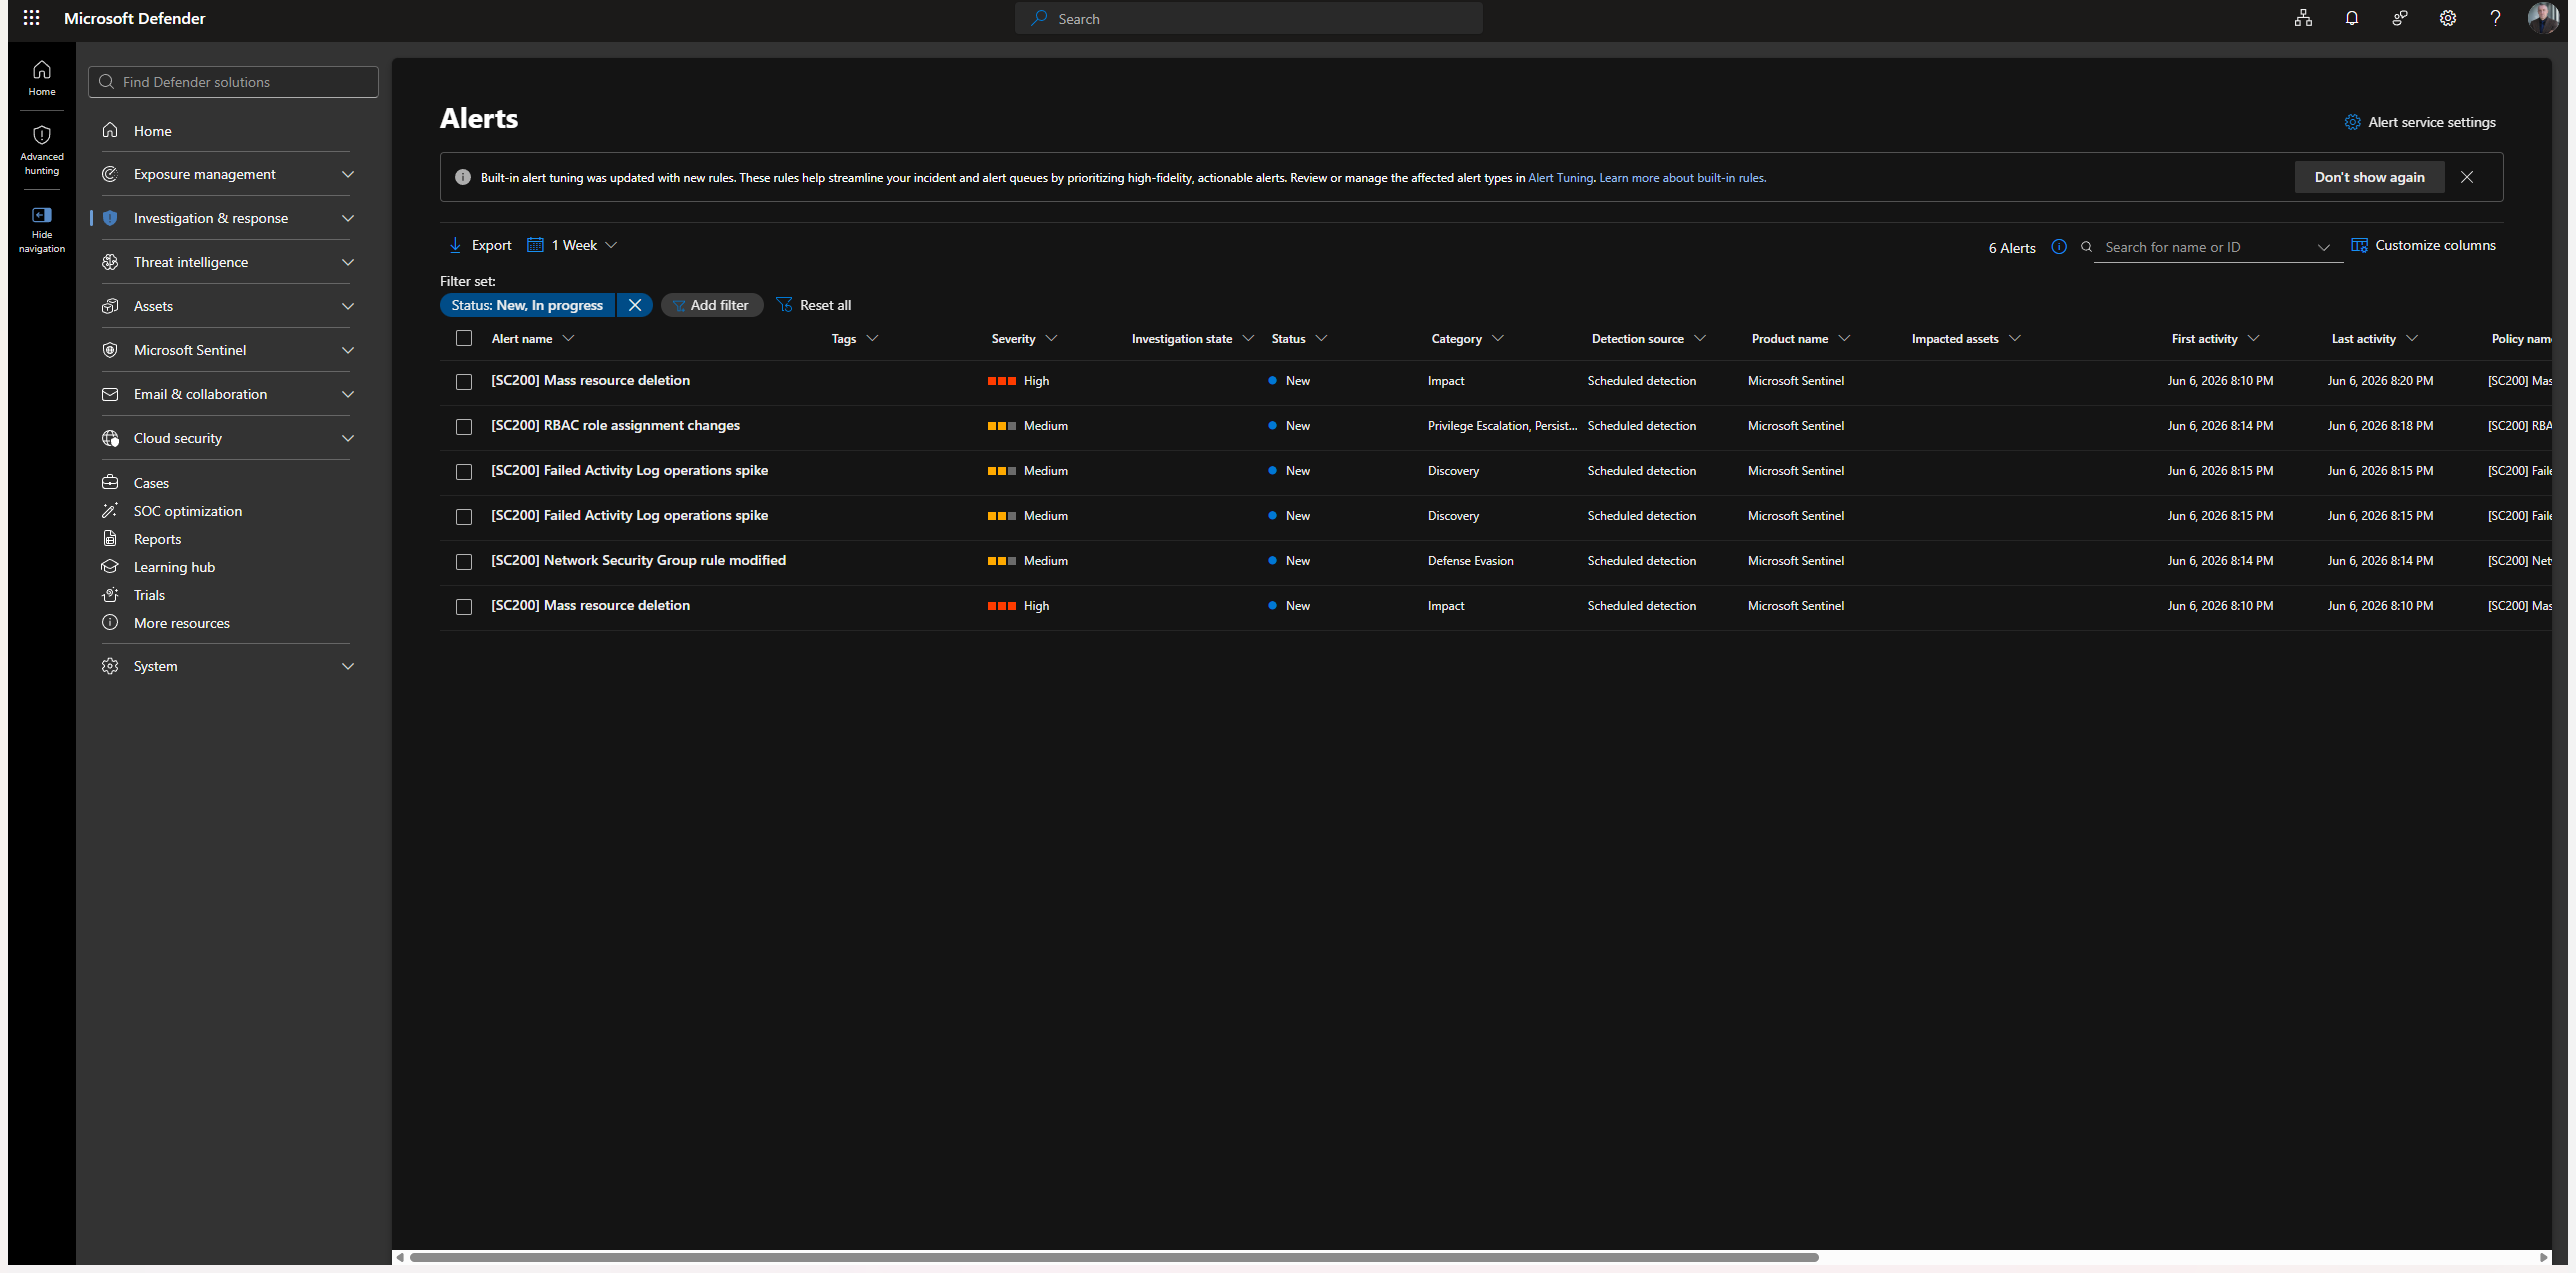
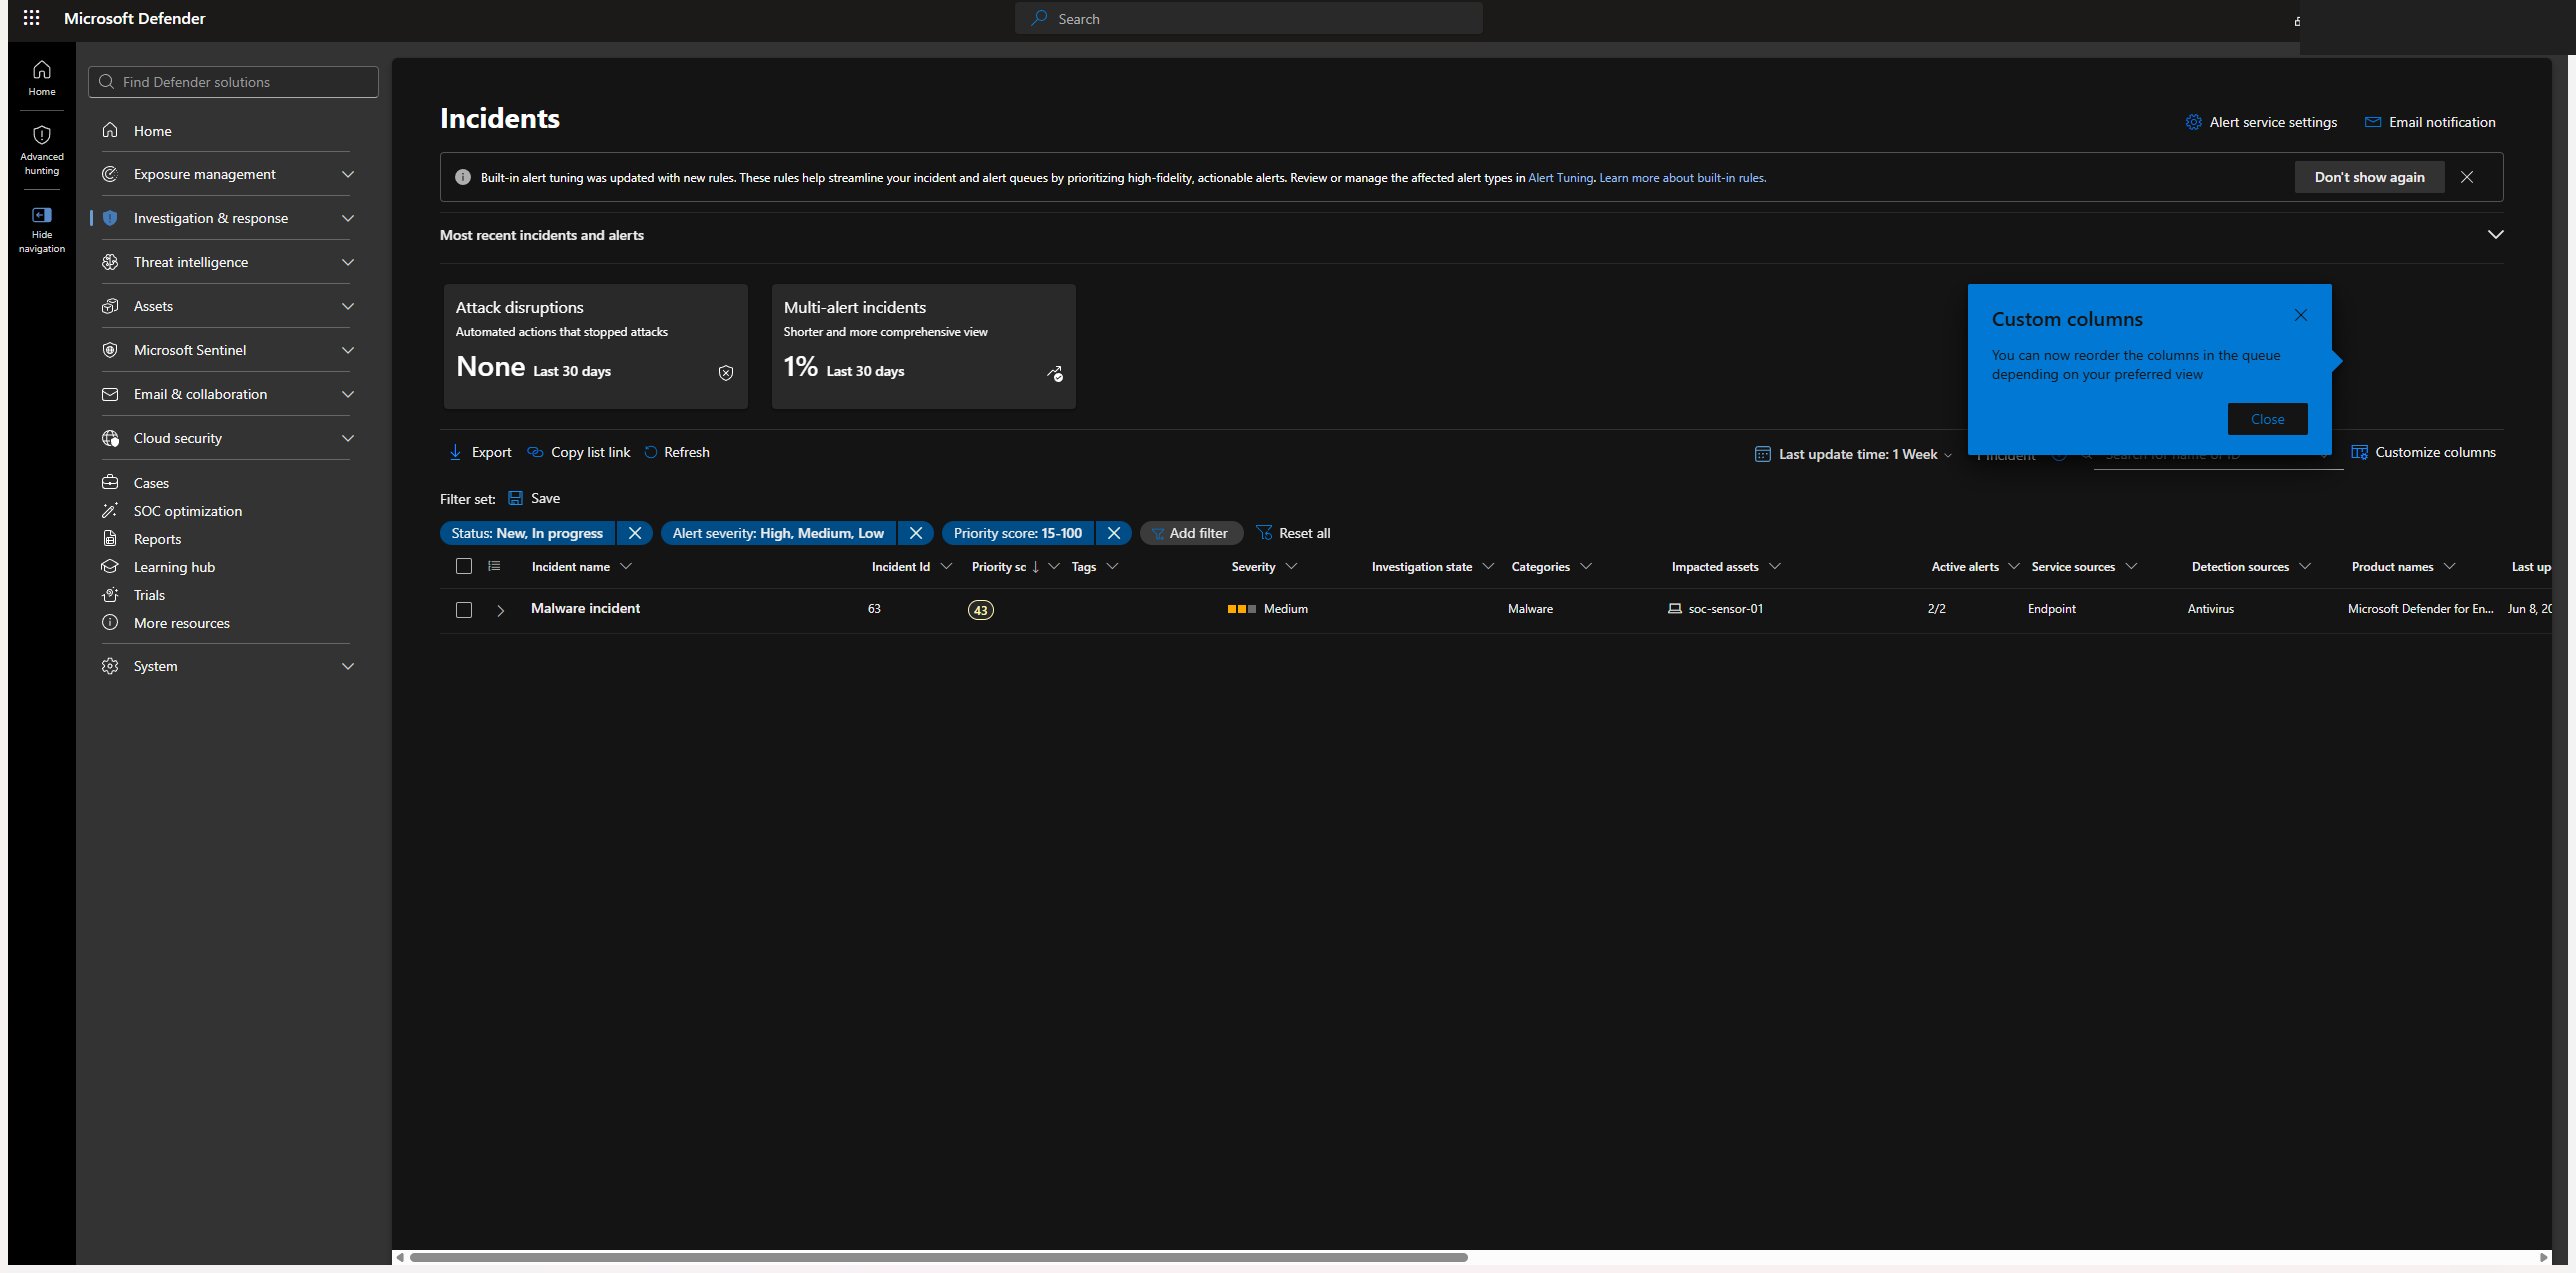
Add live endpoint and TVM evidence screenshots
Captures from the live environment, tenant identifiers redacted (top crop
removes the URL-bar tenant id; the account chip with UPN, org name, and photo
is blacked out on every portal frame):

- 02 refreshed: Sentinel Analytics showing six [DET] rules enabled, including
  [DET] LSASS credential access (High).
- 05 refreshed: incidents queue with the endpoint incident on soc-sensor-01.
- 07 new: Defender Vulnerability Management weaknesses, OpenSSL critical CVEs (CVSS 9.8).
- 08 new: device inventory, soc-sensor-01 Active and onboarded.
- 09 new: Microsoft Secure Score.
- 11 new: Microsoft Sentinel overview (incident queue + analytics state).

Wire the new captures into docs/07 (Evidence section), the README endpoint
section, and INV-03; update the screenshots index and redaction notes.

diff --git a/screenshots/README.md b/screenshots/README.md
@@ -2,23 +2,30 @@
 
 Visual evidence for these detections. Full unredacted captures are staged in `_raw/` (git-ignored); the cropped copies here (browser chrome removed) are the ones referenced by the docs.
 
-## Captured (v1)
+## Captured
 
 | File | Shows |
 |------|-------|
 | `01-telemetry-schema.png` | Advanced hunting, live `sc200-ws` schema + query editor/history |
-| `02-detection-rules-overview.png` | Detection Rules, 5 `[DET]` rules, Enabled, with MITRE tactics/techniques |
-| `05-incidents-queue-populated.png` | Alert queue, the `[DET]` detections fired (Mass deletion High, RBAC, Failed-ops, NSG) |
+| `02-detection-rules-overview.png` | Sentinel Analytics, 6 `[DET]` rules Enabled (incl. `[DET] LSASS credential access`, High), MITRE tactics/techniques |
+| `05-incidents-queue-populated.png` | Incidents queue, endpoint incident on `soc-sensor-01` (Antivirus / Defender for Endpoint) |
 | `06-inc-03-overview.png` | RBAC role assignment alert detail |
 | `06-inc-04-overview.png` | Mass resource deletion (High) alert detail, caller + delete counts 8/5 over threshold |
+| `07-tvm-weaknesses.png` | Defender Vulnerability Management, OpenSSL critical CVEs (CVSS 9.8), 3 critical / 19 in org |
+| `08-device-active.png` | Device inventory, `soc-sensor-01` Active and Onboarded (Windows 11 sensor) |
+| `09-secure-score.png` | Microsoft Secure Score posture for the tenant |
+| `11-sentinel-overview.png` | Microsoft Sentinel overview, incident queue + analytics-rule state |
 
-## Redaction note (review before publishing)
+## Redaction
 
-The crop removes the browser URL bar (which carried the tenant ID). One item remains visible in the alert-detail shots (`06-inc-03`, `06-inc-04`):
+The top crop removes the browser URL bar (which carried the tenant ID). The portal captures
+(`02`, `05`, `07`, `08`, `09`, `11`) additionally have the top-right account chip blacked out, which
+carried the UPN, the organization name, and the profile photo. Subscription IDs are not visible in
+any captured frame.
 
-- [ ] **Caller email** `ievgen@<redacted-tenant>` appears in the Query-results "Caller" column. It is your own address/domain, blur it if you prefer the repo not to surface it.
+Still review before publishing:
 
-No subscription IDs are visible in the captured frames (`DeletedResources` is truncated to `[""]`).
+- [ ] **Caller email** `ievgen@<redacted-tenant>` in the older alert-detail shots (`06-inc-03`, `06-inc-04`) Query-results "Caller" column; blur if you prefer it not surfaced.
 
 ## Optional / not in v1
 

diff --git a/docs/07-endpoint-vulnerability-management.md b/docs/07-endpoint-vulnerability-management.md
@@ -86,3 +86,21 @@ Defender prevention alert, so it fires whether the dump runs or is blocked. See
 TVM is populated and queried in advanced hunting: 25 CVEs on the host (5 Critical, 9 High; OpenSSL
 at CVSS 9.8) and 58 failed secure-configuration checks across Firewall, ASR, OS, Network, and
 Accounts categories. The four hunts in [`kql/hunting`](../kql/hunting) return these rows directly.
+
+## Evidence
+
+The sensor is Active and onboarded in Device Inventory:
+
+![Device inventory, soc-sensor-01 Active](../screenshots/08-device-active.png)
+
+DET-006 sits in the deployed catalog as `[DET] LSASS credential access`, one of six pipeline-deployed rules:
+
+![Sentinel analytics rules, DET catalog](../screenshots/02-detection-rules-overview.png)
+
+The LSASS dump attempts raised an endpoint incident on `soc-sensor-01`:
+
+![Incidents queue, endpoint incident on soc-sensor-01](../screenshots/05-incidents-queue-populated.png)
+
+Defender Vulnerability Management surfaces the OpenSSL critical CVEs (CVSS 9.8):
+
+![TVM weaknesses, OpenSSL criticals](../screenshots/07-tvm-weaknesses.png)

diff --git a/README.md b/README.md
@@ -92,7 +92,11 @@ The highest-severity detection closes the loop from detect to respond. A Sentine
 
 ## Endpoint and vulnerability management
 
-The detections start on the Azure control plane; this phase adds the endpoint plane. A Defender for Endpoint sensor on a Windows host feeds the same workspace, so the Detection-as-Code pipeline deploys an endpoint rule, [DET-006 LSASS credential access](detections/DET-006-lsass-credential-access.md), next to the control-plane rules. DET-006 is multi-source and witnessed: three credential-dump techniques were run against the sensor, the hardened host (LSASS RunAsPPL, AMSI, behavioral protection) prevented every one, and the rule fired on the resulting Defender alerts to raise [Incident #65](investigations/INV-03-lsass-credential-access.md). Defender Vulnerability Management adds a second input: a [hunting library](kql/hunting) that surfaces critical CVEs by exposed software, failed secure-configuration baselines, and vulnerable assets under active alert. The `DeviceTvm*` tables live only in Defender advanced hunting, so those correlations are hunts, not deployed rules, and the repo says where each query actually runs. Architecture and data flow: [docs/07](docs/07-endpoint-vulnerability-management.md).
+The detections start on the Azure control plane; this phase adds the endpoint plane. A Defender for Endpoint sensor on a Windows host feeds the same workspace, so the Detection-as-Code pipeline deploys an endpoint rule, [DET-006 LSASS credential access](detections/DET-006-lsass-credential-access.md), next to the control-plane rules. DET-006 is multi-source and witnessed: three credential-dump techniques were run against the sensor, the hardened host (LSASS RunAsPPL, AMSI, behavioral protection) prevented every one, and the rule fired on the resulting Defender alerts to raise an incident ([INV-03](investigations/INV-03-lsass-credential-access.md)). Defender Vulnerability Management adds a second input: a [hunting library](kql/hunting) that surfaces critical CVEs by exposed software, failed secure-configuration baselines, and vulnerable assets under active alert. The `DeviceTvm*` tables live only in Defender advanced hunting, so those correlations are hunts, not deployed rules, and the repo says where each query actually runs. Architecture and data flow: [docs/07](docs/07-endpoint-vulnerability-management.md).
+
+![Device inventory, soc-sensor-01 Active](screenshots/08-device-active.png)
+
+![TVM weaknesses, OpenSSL critical CVEs](screenshots/07-tvm-weaknesses.png)
 
 ## Repository layout
 

diff --git a/investigations/INV-03-lsass-credential-access.md b/investigations/INV-03-lsass-credential-access.md
@@ -21,7 +21,7 @@
 - **Host:** `soc-sensor-01`, reporting Active in Device Inventory.
 - **Account / process tree:** `NT AUTHORITY\SYSTEM`, `cmd.exe → powershell.exe -ExecutionPolicy Unrestricted -File <script>.ps1` (the management channel used to drive the controlled test).
 
-_Incident #65 overview and the correlated MDATP alerts are captured in the Sentinel incident screenshot (`screenshots/10-inc-06-lsass.png`)._
+The prevention raised a Defender incident on `soc-sensor-01` (Endpoint / Antivirus), shown in the [incidents queue](../screenshots/05-incidents-queue-populated.png), and DET-006 raised the correlated Sentinel incident; the [DET-006 rule](../screenshots/02-detection-rules-overview.png) and the [Sentinel state](../screenshots/11-sentinel-overview.png) are captured alongside.
 
 ## 2. What generated the activity
 